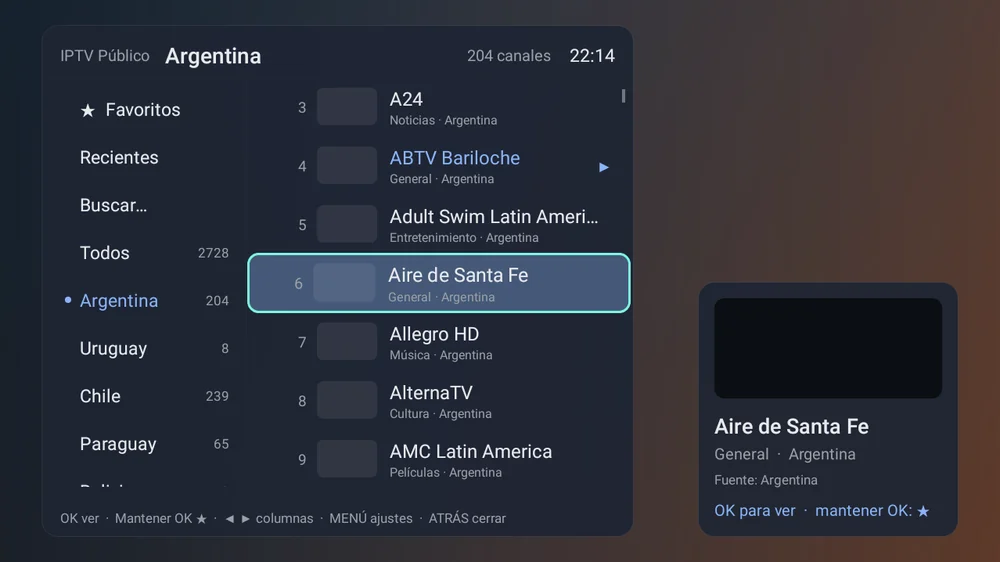
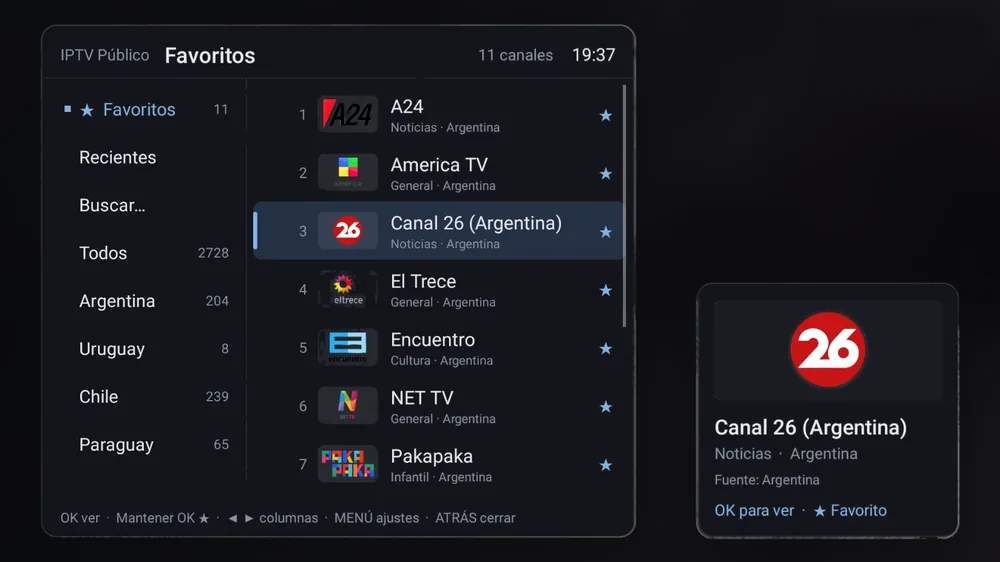
IPTV Público: captura nueva de Favoritos en la web
La primera captura es el panel de Favoritos que mandó Nacho, con el fondo de la TV en vivo difuminado y la marca Telemax tapada.

diff --git a/apps/iptv-publico.html b/apps/iptv-publico.html
@@ -8,7 +8,7 @@
 --><p class="sinpub-app"><span class="sinpub"><svg viewBox="0 0 24 24" fill="none" stroke="currentColor" stroke-width="2.2" stroke-linecap="round" stroke-linejoin="round" aria-hidden="true"><circle cx="12" cy="12" r="9"/><path d="M5.6 5.6l12.8 12.8"/></svg>Sin publicidad. Nunca.</span><span>Pagás una vez y la app es tuya: sin banners, sin videos que te hacen esperar, sin interrupciones. <a href="../index.html#sin-publicidad">Por qué cobramos</a></span></p>
 <p class="aviso inst-ayuda">¿Te aparece un aviso al instalar (Play Protect u «orígenes desconocidos»)? <a href="../instalar.html"><b>Cómo instalar paso a paso</b> — celular y TV</a>.</p>
 <p id="msg-compra" class="aviso" hidden></p>
-<div class="shots" tabindex="0" aria-label="Capturas"><a href="../img/iptv-publico-0-hd.webp" class="lb" data-lb="iptv-publico"><img src="../img/iptv-publico-0.webp" alt="TV: lista de canales (tocá para ampliar)" width="1000" height="562" loading="lazy"><span class="cap">TV: lista de canales</span></a><a href="../img/iptv-publico-1-hd.webp" class="lb" data-lb="iptv-publico"><img src="../img/iptv-publico-1.webp" alt="TV: mirando un canal (tocá para ampliar)" width="1000" height="562" loading="lazy"><span class="cap">TV: mirando un canal</span></a><a href="../img/iptv-publico-2-hd.webp" class="lb" data-lb="iptv-publico"><img src="../img/iptv-publico-2.webp" alt="TV: categorías (tocá para ampliar)" width="1000" height="562" loading="lazy"><span class="cap">TV: categorías</span></a><a href="../img/iptv-publico-3-hd.webp" class="lb" data-lb="iptv-publico"><img src="../img/iptv-publico-3.webp" alt="Celular: lista táctil y buscador (tocá para ampliar)" width="1000" height="2167" loading="lazy"><span class="cap">Celular: lista táctil y buscador</span></a><a href="../img/iptv-publico-4-hd.webp" class="lb" data-lb="iptv-publico"><img src="../img/iptv-publico-4.webp" alt="Celular: Enviar a la tele (tocá para ampliar)" width="1000" height="2167" loading="lazy"><span class="cap">Celular: Enviar a la tele</span></a><a href="../img/iptv-publico-5-hd.webp" class="lb" data-lb="iptv-publico"><img src="../img/iptv-publico-5.webp" alt="Celular: reproductor con la hora (tocá para ampliar)" width="1000" height="2167" loading="lazy"><span class="cap">Celular: reproductor con la hora</span></a></div>
+<div class="shots" tabindex="0" aria-label="Capturas"><a href="../img/iptv-publico-0-hd.webp" class="lb" data-lb="iptv-publico"><img src="../img/iptv-publico-0.webp" alt="TV: panel de Favoritos y ficha del canal (tocá para ampliar)" width="1000" height="562" loading="lazy"><span class="cap">TV: Favoritos</span></a><a href="../img/iptv-publico-1-hd.webp" class="lb" data-lb="iptv-publico"><img src="../img/iptv-publico-1.webp" alt="TV: mirando un canal (tocá para ampliar)" width="1000" height="562" loading="lazy"><span class="cap">TV: mirando un canal</span></a><a href="../img/iptv-publico-2-hd.webp" class="lb" data-lb="iptv-publico"><img src="../img/iptv-publico-2.webp" alt="TV: categorías (tocá para ampliar)" width="1000" height="562" loading="lazy"><span class="cap">TV: categorías</span></a><a href="../img/iptv-publico-3-hd.webp" class="lb" data-lb="iptv-publico"><img src="../img/iptv-publico-3.webp" alt="Celular: lista táctil y buscador (tocá para ampliar)" width="1000" height="2167" loading="lazy"><span class="cap">Celular: lista táctil y buscador</span></a><a href="../img/iptv-publico-4-hd.webp" class="lb" data-lb="iptv-publico"><img src="../img/iptv-publico-4.webp" alt="Celular: Enviar a la tele (tocá para ampliar)" width="1000" height="2167" loading="lazy"><span class="cap">Celular: Enviar a la tele</span></a><a href="../img/iptv-publico-5-hd.webp" class="lb" data-lb="iptv-publico"><img src="../img/iptv-publico-5.webp" alt="Celular: reproductor con la hora (tocá para ampliar)" width="1000" height="2167" loading="lazy"><span class="cap">Celular: reproductor con la hora</span></a></div>
 
 <div class="cols"><div><section class="distinta"><h2>Lo que la hace distinta</h2><ul><li>📺 Enviar a la tele desde el celular: Chromecast o Smart TV (DLNA) en el mismo Wi-Fi.</li><li>📡 Listas abiertas y legales, por categoría.</li><li>⭐ Favoritos, recientes, búsqueda e imagen en imagen.</li><li>🔗 Se integra con Launcher TV (TV en vivo y guía).</li></ul></section><h2>Qué es</h2><p>Reproductor de canales de TV públicos y gratuitos (listas abiertas de iptv-org y TDTChannels) y listas M3U propias, con favoritos, recientes, búsqueda e imagen en imagen. No incluye ni vende contenido: sólo reproduce listas públicas.</p><h2>Qué hace</h2><ul><li>Reproduce miles de canales de TV públicos y gratuitos (listas abiertas de iptv-org y TDTChannels), ordenados por categoría.</li><li>También abre tus propias listas M3U. Tiene favoritos, recientes, búsqueda e imagen en imagen.</li><li>En el celular: deslizá a la derecha para el volumen, a la izquierda para el brillo, de costado (o doble toque) para cambiar de canal, y pellizcá para hacer zoom.</li><li>Enviar a la tele desde el celular: Chromecast (necesita Servicios de Google Play), Smart TV con DLNA en el mismo Wi-Fi, o abrir el canal en otro reproductor. Algunos canales sólo se ven en el celular.</li><li>No incluye ni vende contenido: sólo reproduce listas públicas.</li></ul><h2>Requisitos</h2><ul><li>TV: Android TV / TV box con Android 9 o superior</li><li>Celular: Android 9 o superior</li><li>Conexión a internet</li></ul><h2>Funciones</h2><ul class="f"><li>Listas públicas + M3U propias</li><li>Favoritos, recientes y búsqueda</li><li>Imagen en imagen</li><li>Enviar a la tele desde el celular (Chromecast o DLNA)</li><li>Integración con Launcher TV</li><li>Navegación con el control</li></ul>
 <h2>Cómo se instala</h2><ol class="pasos-i"><li>TV: instalá el APK de TV con Downloader o un pendrive y abrila; elegí una categoría y un canal con el control.</li><li>Celular: descargá el APK de celular, abrilo y permití «Instalar apps de origen desconocido» si lo pide; tocá un canal para verlo.</li><li>Para comprar: «Activar» → «Comprar con Mercado Pago».</li></ol><h2>Novedades</h2><ul><li><b>2.2.6</b> — Prueba de 7 días a prueba de reloj mal puesto: si el equipo arranca con la fecha atrasada (TV box sin pila), la tarjeta de prueba ahora se muestra siempre con los días que quedan y el tiempo se cuenta con el reloj interno del equipo; atrasar la hora ya no regala ni esconde días. Botón «Comprar con Mercado Pago» siempre habilitado (en algunos equipos se veía gris).</li><li><b>2.2.5</b> — Selector de colores y tema corregido para pantallas angostas (3 columnas, textos completos). Al activar la licencia desaparece todo rastro de la prueba.</li><li><b>2.2.4 (TV) · 2.3.2 celular</b> — Licencia: en el primer arranque espera la sincronización con el servidor antes de pedir activar si el reloj del equipo saltó (no aparece «Vencida» por error).</li><li><b>2.2.3 (TV) · 2.3.1 celular</b> — Reloj estilo decodificador: la hora (HH:mm) arriba a la derecha, semitransparente y legible sobre el video. En las listas queda fija; mirando un canal aparece junto con el nombre al cambiar de canal o con OK/INFO.</li><li><b>2.2.2 (TV)</b> — Aviso de prueba gratis más claro (te dice cuándo vence), días restantes a la vista y corrección de la prueba con el reloj del equipo mal configurado.</li><li><b>2.3.0 celular</b> — Nueva versión para celular: todo con el dedo, gestos en el reproductor y botón para enviar a la tele (Chromecast o DLNA).</li><li><b>2.2</b> — TV: rediseño estilo Launcher TV y tutorial renovado.</li></ul></div>
